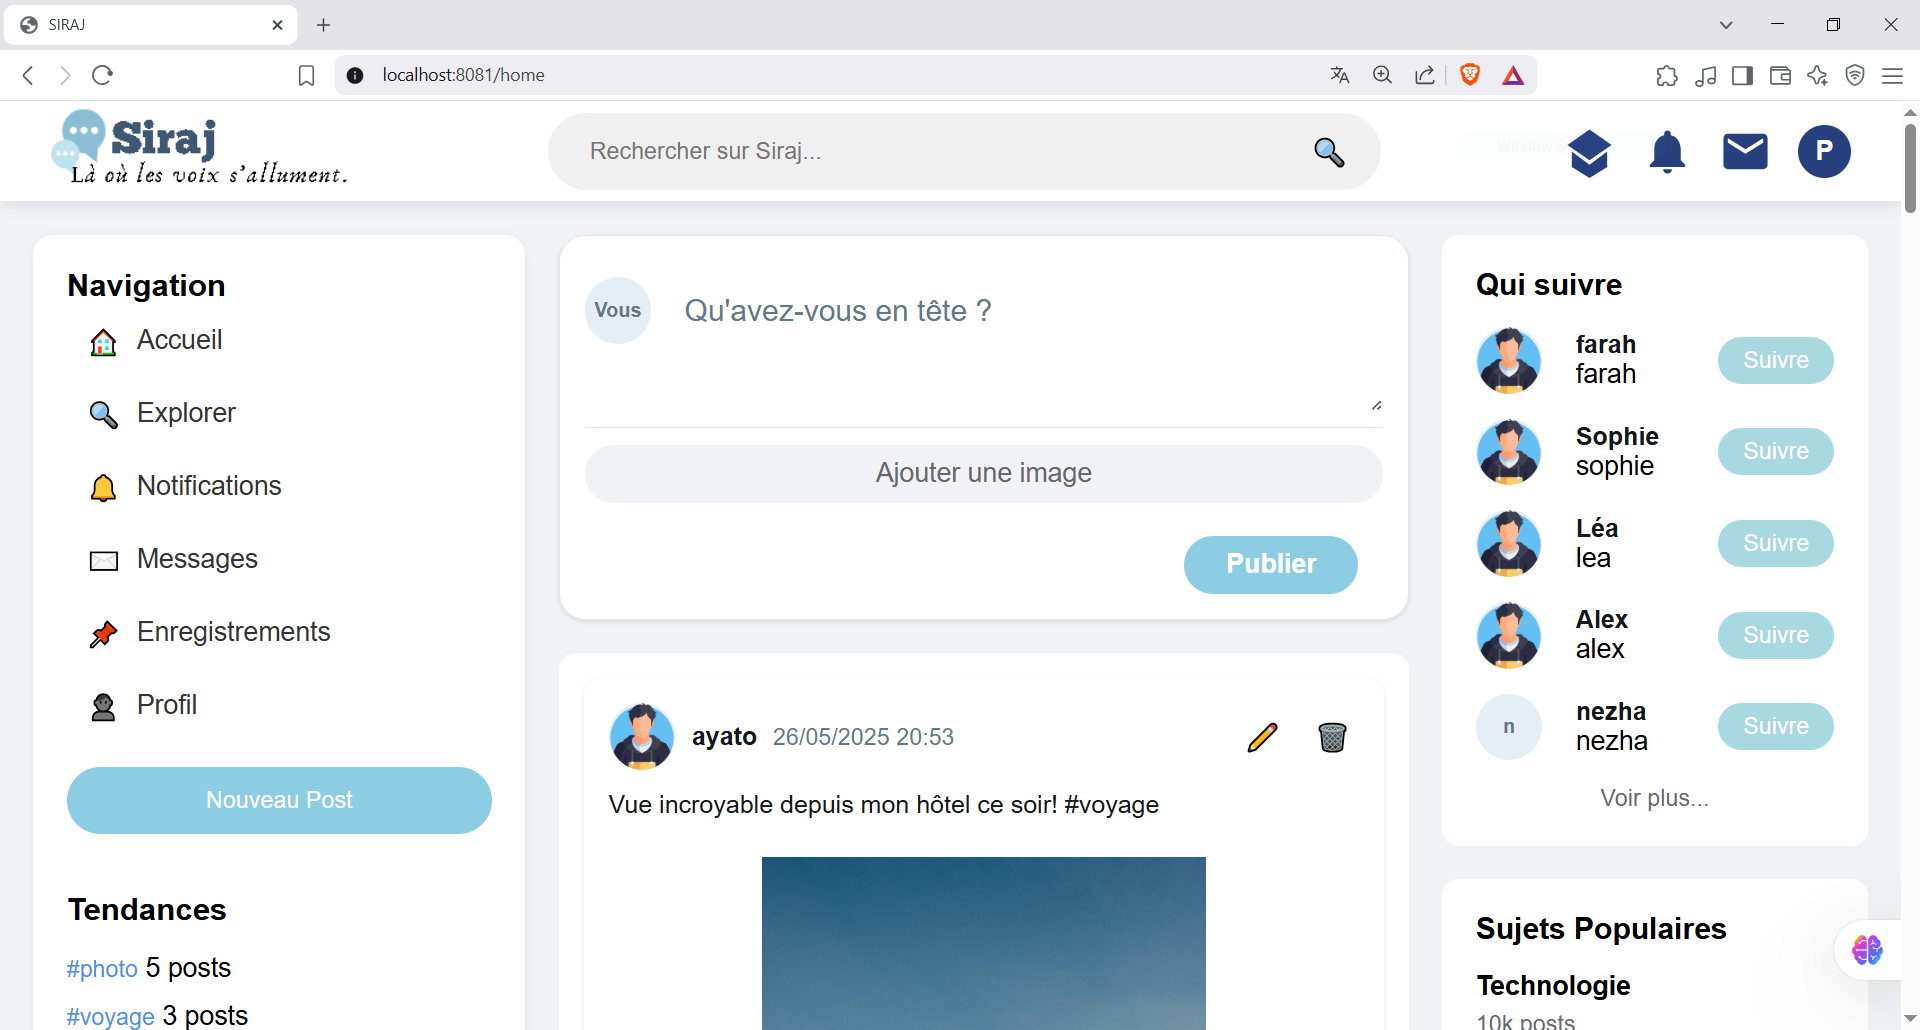
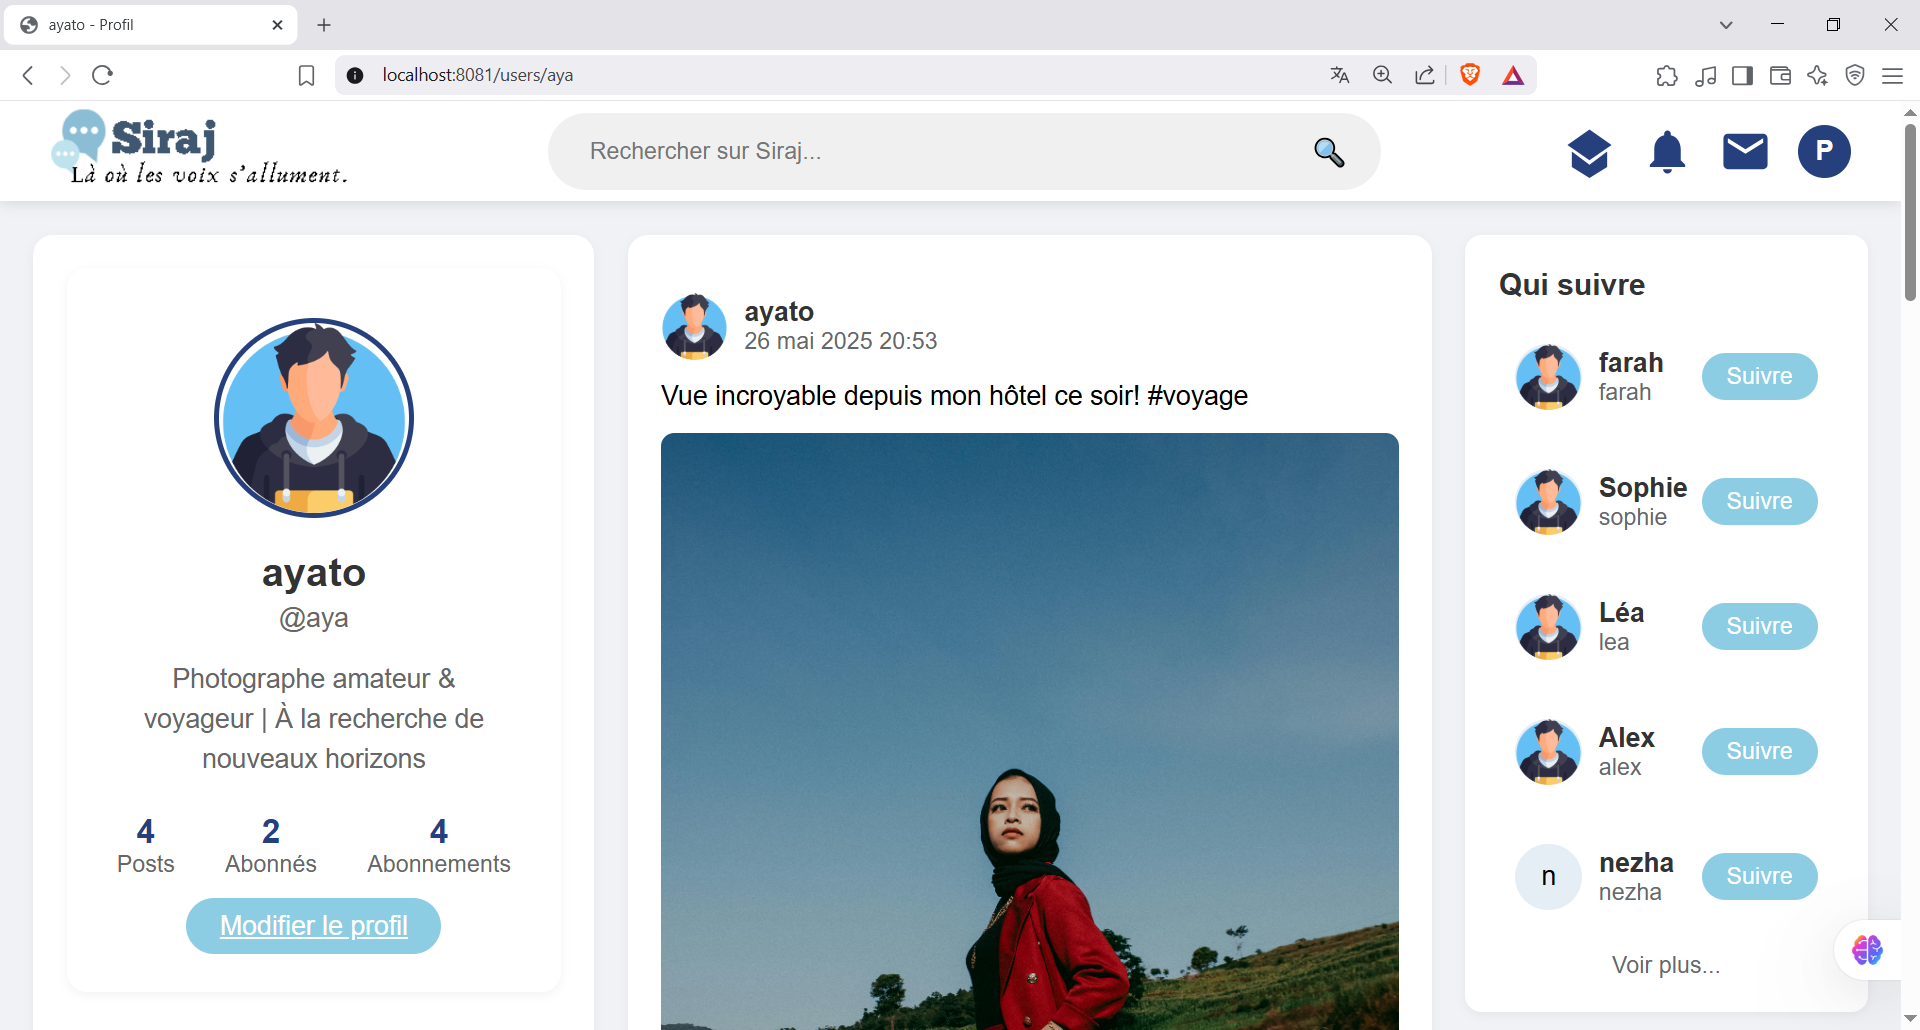
Modification  de logout

diff --git a/src/main/resources/templates/acceuil.html b/src/main/resources/templates/acceuil.html
@@ -1394,7 +1394,7 @@
                 <a th:href="@{/users/suggestions}" class="see-more">Voir plus...</a>
             </div>
             
-            <div class="trending-topics">
+            <!-- <div class="trending-topics">
                 <div class="sidebar-title">Sujets Populaires</div>
                 
                 <div class="topic">
@@ -1411,7 +1411,7 @@
                     <div class="topic-title">Innovation Web</div>
                     <div class="topic-posts">3.7k posts</div>
                 </div>
-            </div>
+            </div> -->
         </div>
     </div>
     
